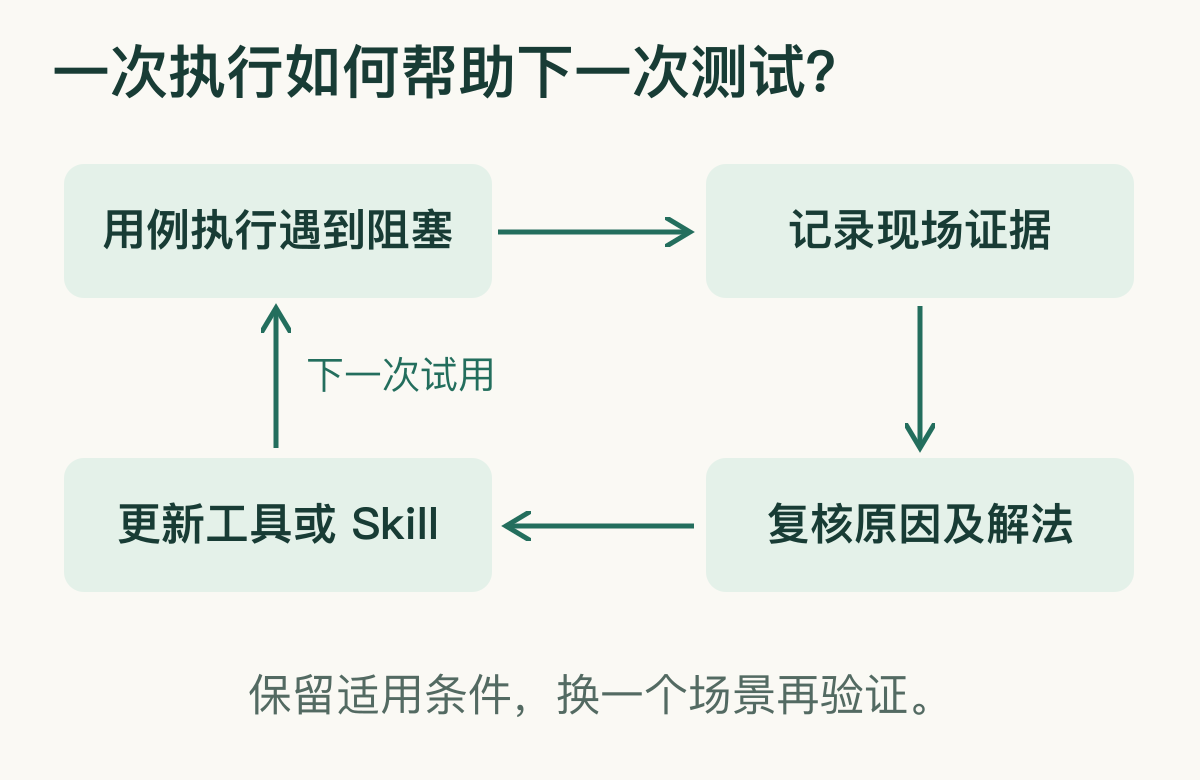
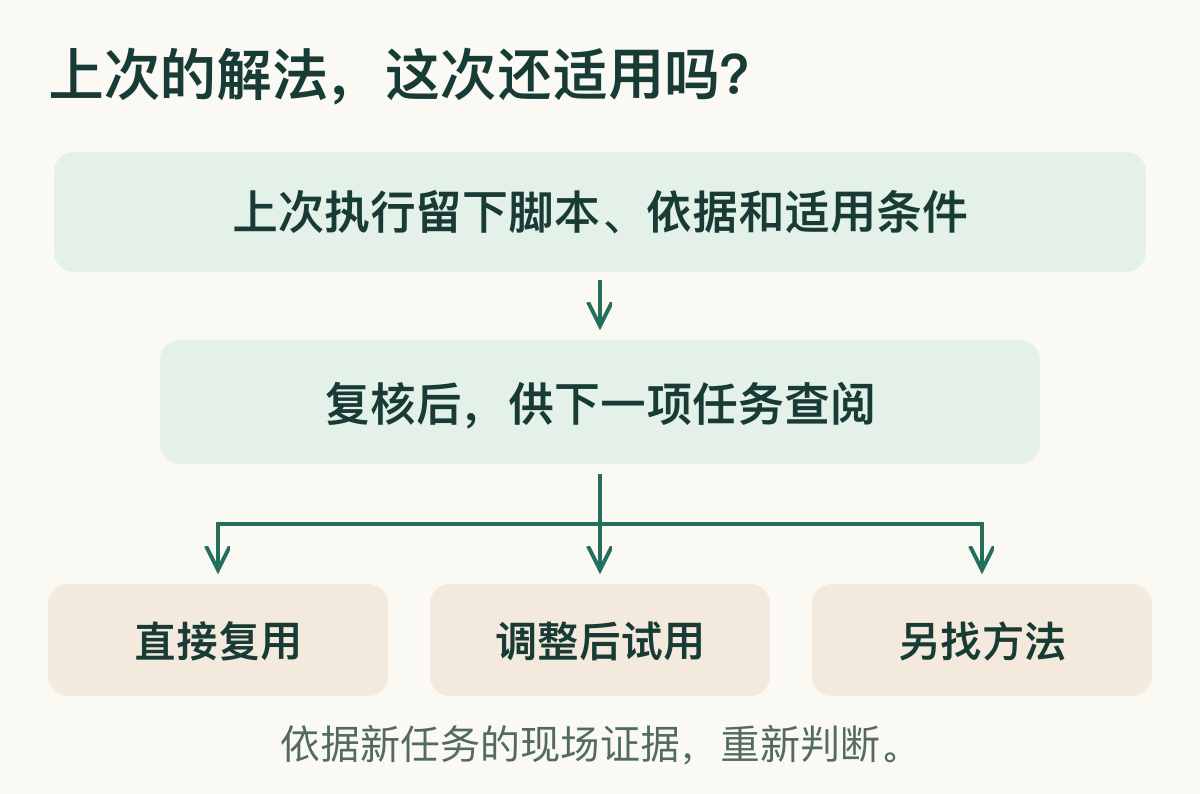
Align harness illustrations and close on first-principles experimentation

diff --git a/docs/wechat/tool-skill-test-execution.zh.html b/docs/wechat/tool-skill-test-execution.zh.html
@@ -14,16 +14,18 @@
 <p style="margin:0 0 18px;">这件事让我想到测试之外。假设我要做一个帮人排查软件问题的 Agent。有人说刚刚升级，应用就打不开了。很容易给它排好步骤，先读改动记录，再查源码，然后跑一次复现。可如果启动日志第一行就写着磁盘已满，我希望它下一步先核对可用空间。是不是升级引起的，可以稍后再说。让它照原路走，每一步都可能做得很认真，整件事却绕了远路。</p>
 <p style="margin:0 0 18px;">设计 harness 的时候，有些步骤来自业务约定，有些来自我们对模型的印象，比如“得先替它拆好，否则它会漏”。两者写成代码，看上去一样坚固。时间一长，连当初为什么要加这一步都容易忘。模型换代以后，我最想重新打开的就是后一类决定。当初需要人扶一把的地方，今天还需要吗？</p>
 <p style="margin:0 0 18px;">这里有个很实在的分别。哪个环境允许操作，什么结果足以判定通过，团队可以事先讲清楚，权限和预算也应由系统执行。至于打开哪份资料、查哪项状态、发现矛盾后要不要换个方向，执行者往往比画流程图的人多知道一点——它刚看过上一个动作的结果。这是我理解的 Context, Not Control。</p>
-<p style="margin:24px 0 8px;"><img src="../../public/diagrams/tool-skill-working-conditions.png" style="width:100%;height:auto;display:block;" alt="准备环境、开放工具、写清适用条件，是团队交给模型的工程基础。" /></p>
-<p style="margin:0 0 24px;font-size:14px;color:#536a62;">准备环境、开放工具、写清适用条件，是团队交给模型的工程基础。</p>
+<p style="margin:24px 0 8px;"><img src="../../public/diagrams/tool-skill-working-conditions.png" style="width:100%;height:auto;display:block;" alt="以启动失败为例。团队限定排查范围，模型根据日志里的线索决定先查什么。" /></p>
+<p style="margin:0 0 24px;font-size:14px;color:#536a62;">以启动失败为例。团队限定排查范围，模型根据日志里的线索决定先查什么。</p>
 <h2 style="margin:32px 0 18px;padding-left:12px;border-left:4px solid #257564;font-size:21px;line-height:1.5;">一次执行能给下次留下什么</h2>
 <p style="margin:0 0 18px;">说来也有意思，我们试着松开一部分步骤之后，我反而更佩服团队先前做的工程工作。模型能判断，是因为它真的可以查到东西；它遇见问题能换条路，是因为手边有另一件可用的工具。早先为了让流水线跑起来而摸清的环境、写好的脚本、记下的经验，都成了它今天做决定的依据。</p>
 <p style="margin:0 0 18px;">后来的几轮运行还有一个变化。头一轮花了好几个小时，接下来的一轮明显缩短，再往后又快了一些。每轮结束时，都会多出一些下一项任务能用的东西：有时是一段脚本，有时是改过的工具，有时是一条经验，说明这个办法在哪种条件下才管用。</p>
 <p style="margin:0 0 18px;">这和给流水线再加一个分支，有个我很在意的区别。把解法写成固定分支，我得替下一次任务决定什么时候采用它。留下脚本、使用条件和当时的证据，下一次的模型可以看看眼前是不是同一回事，决定直接用、改一改，或者放在一边。经验经过复核再留下来，模型就有机会接着团队和前几轮执行的工作往下走。</p>
-<p style="margin:24px 0 8px;"><img src="../../public/diagrams/tool-skill-learning-loop.png" style="width:100%;height:auto;display:block;" alt="一条经验经过复核，可以在以后的任务里被重新选用。" /></p>
-<p style="margin:0 0 24px;font-size:14px;color:#536a62;">一条经验经过复核，可以在以后的任务里被重新选用。</p>
+<p style="margin:24px 0 8px;"><img src="../../public/diagrams/tool-skill-learning-loop.png" style="width:100%;height:auto;display:block;" alt="留下解法和适用条件。到了新任务，模型仍有选择的余地。" /></p>
+<p style="margin:0 0 24px;font-size:14px;color:#536a62;">留下解法和适用条件。到了新任务，模型仍有选择的余地。</p>
 <p style="margin:0 0 18px;">现在样本还小，每轮任务难度也有差异。下一轮我想把问题问得更细一点。给两种做法同样的资料、工具和预算，让它们各自处理一批新任务，看看谁在什么时候换了路，那一步有没有带来更可靠的结论。对于确实省下时间的任务，再从相同起点重跑，暂时收起之前留下的脚本，看看省掉的究竟是哪段摸索。</p>
-<h2 style="margin:32px 0 18px;padding-left:12px;border-left:4px solid #257564;font-size:21px;line-height:1.5;">如果明天就重新设计</h2>
-<p style="margin:0 0 18px;">我会请团队带来一条大家都很熟悉、偶尔又会卡住的任务，把原来的 harness 留作对照。然后回到一张白纸，写下用户真正要的结果，圈出必须守住的边界，再把有经验的人处理这件事时会查的资料、会用的工具交给模型。至于中间那排箭头，我想等它跑过一遍再画。</p>
-<p style="margin:0 0 18px;">也许某一步仍然需要固定下来。也许模型会多走几步，浪费时间。也可能，它查了一件我们没想到要查的东西，用一条更短的路拿到了同样扎实的证据。小范围的测试经历，让我愿意对手上每一套 harness 都做一次这样的尝试。下次换上更强的模型，我想和团队一起重看的，就是那些早已习惯替它做掉的决定。</p>
+<h2 style="margin:32px 0 18px;padding-left:12px;border-left:4px solid #257564;font-size:21px;line-height:1.5;">如果今天是第一天</h2>
+<p style="margin:0 0 18px;">做工程久了，我觉得最难察觉的一件事，是把自己曾经做对过的选择，当成了下一次工作的前提。尤其是那种花了很多心思、到今天我都觉得漂亮的设计。下次讨论时，只要我先把老流程图投到屏幕上，大家很自然就会开始想，箭头往哪里挪一挪。</p>
+<p style="margin:0 0 18px;">所以下次我想晚一点再打开那张图。先问一句，如果今天是我们头一天碰到这个问题，用户希望我们帮他完成什么？比如用户只想知道应用为什么打不开，也愿意让我们读日志。那么“只能读”是他给的边界，“要先看升级记录”却是我们自己加的。这一区别，就是第一性原理思考（first-principles thinking）对我最实际的用处。把事情想回到这里，可试的做法一下子就多了。</p>
+<p style="margin:0 0 18px;">以前有些念头，我会自己先放掉。为了知道一个想法行不行，就要专门花力气搭个原型，未必划算。现在有模型帮忙，做个只验证一个想法的小原型（POC），成本已经很低了。就拿那条启动日志，让模型自己挑第一项检查，看看它能找到什么，再看它的解释能不能被验证。这样的小尝试，值得给那些暂时说服不了我的想法一次机会。</p>
+<p style="margin:0 0 18px;">我想保留的，是 Always Day One 的那点好奇。下次有人提一个出乎意料的做法，我希望自己能晚一点说“我们当初这么设计是有原因的”，先问他一句：“你想拿哪个问题试试？”</p>
 </section>
